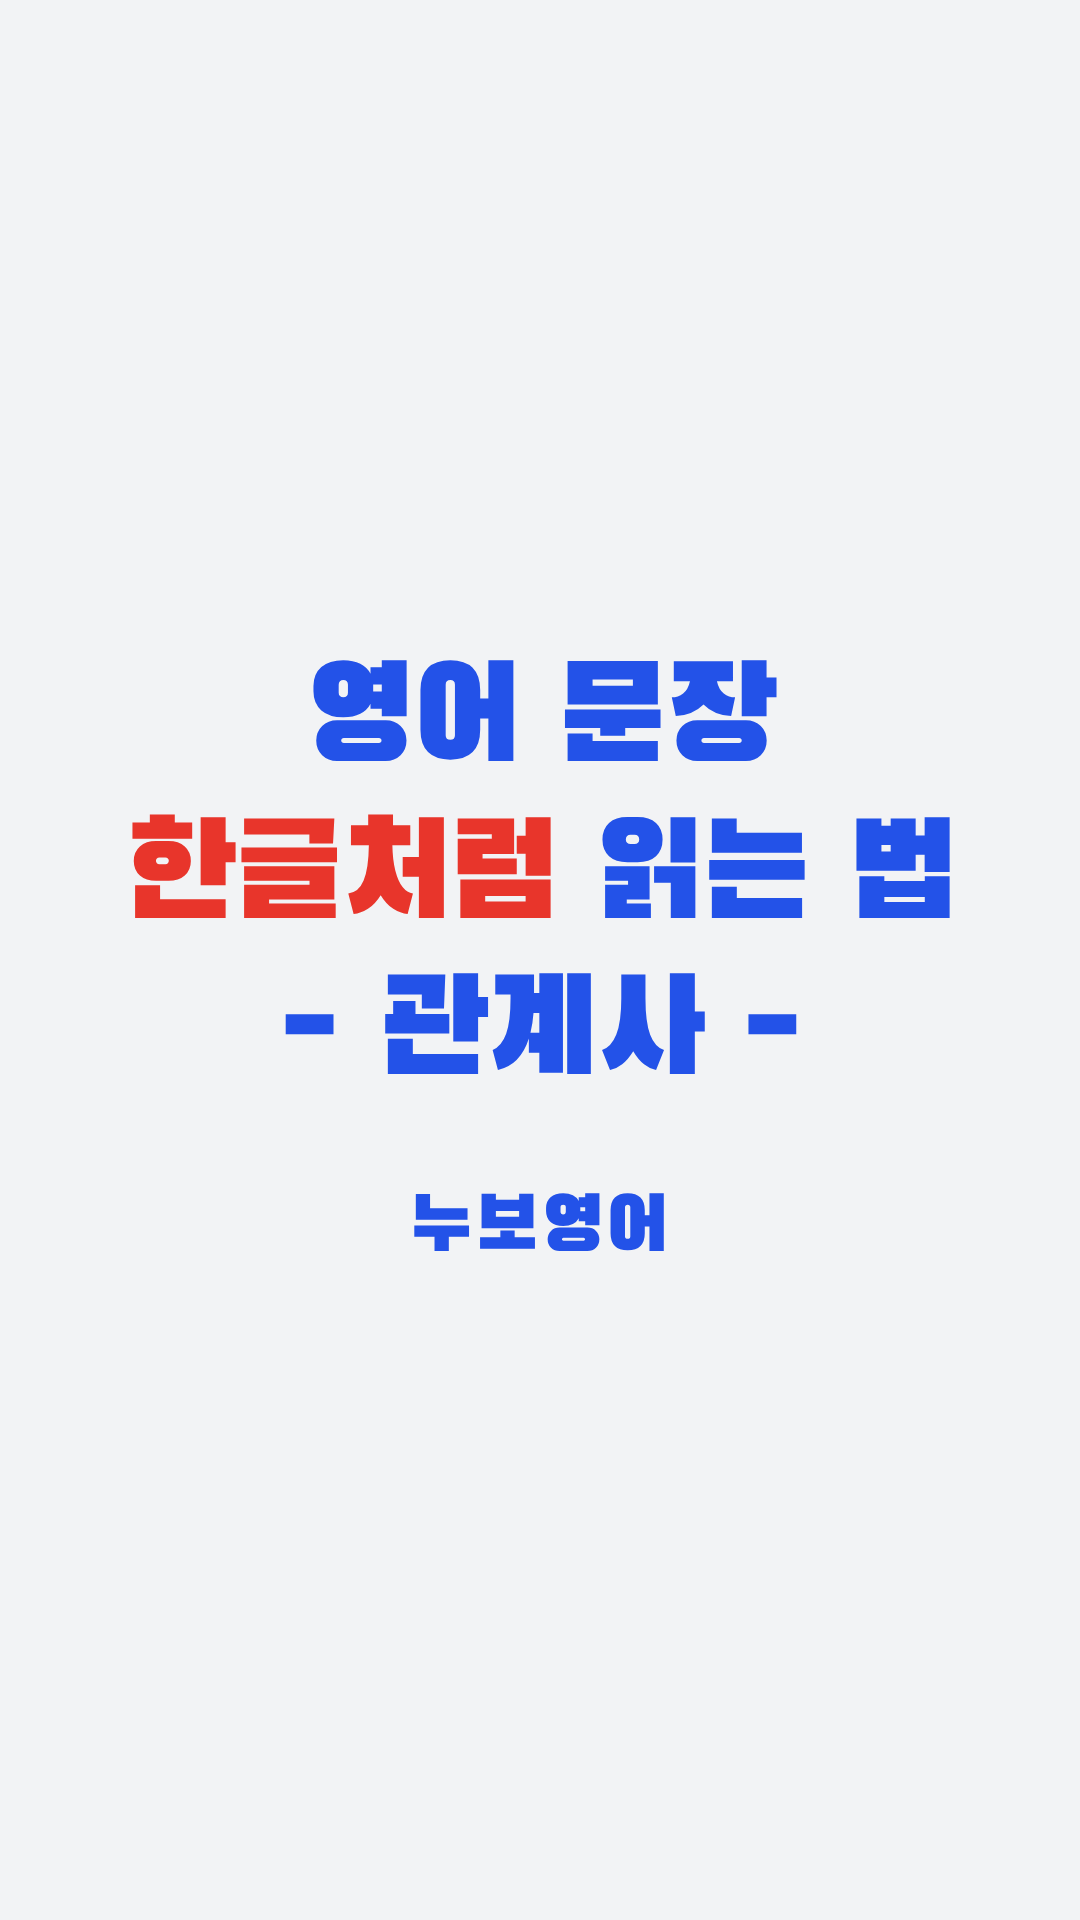
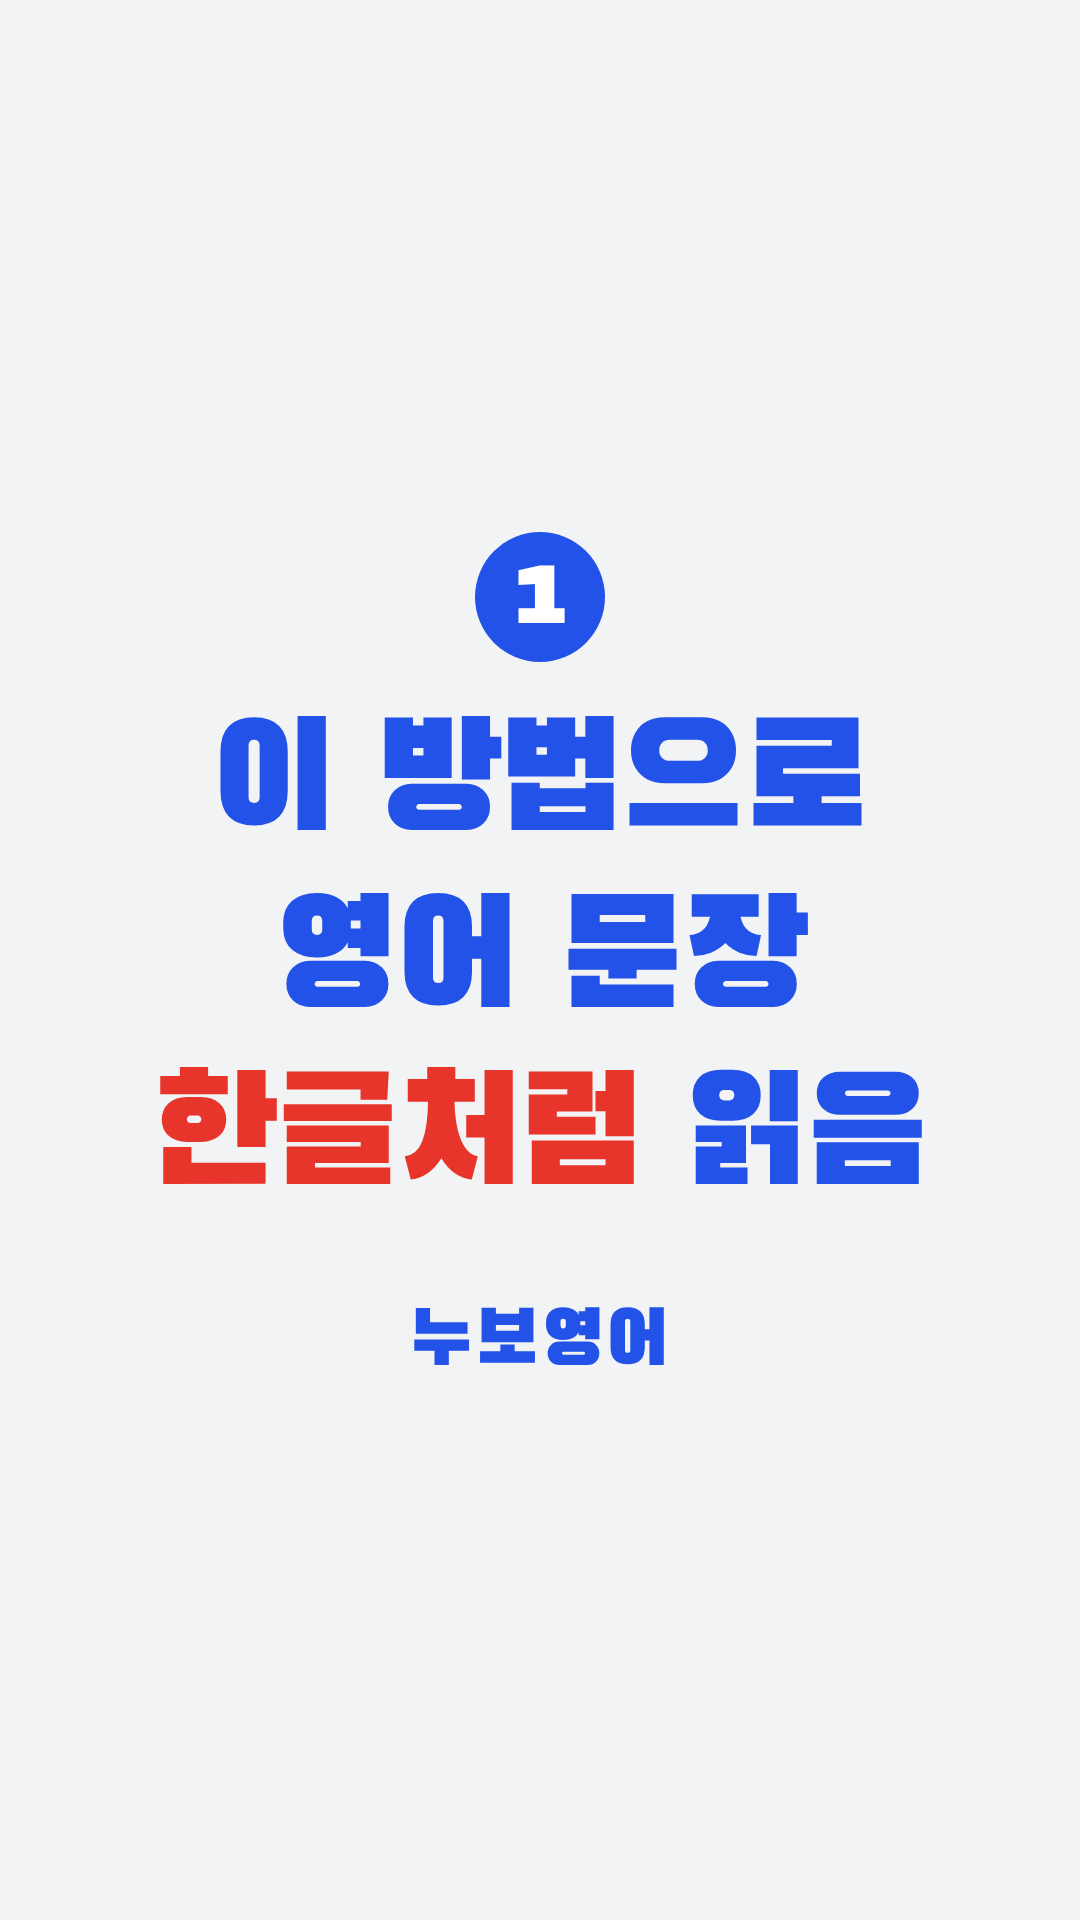
Relative-clause covers: 이 방법으로 영어 문장 한글처럼 읽음 + series badge 1
Claude-Session: https://claude.ai/code/session_01Rym27oCy7NFVPU9s4bdxz4

Changed region(s): [[0.1222, 0.25, 0.8861, 0.7188]]

diff --git a/motion/src/tip/Cover.tsx b/motion/src/tip/Cover.tsx
@@ -5,7 +5,7 @@ import '../fonts';
 
 /** Reel cover. Text stays inside the centre 3:4 area so the profile-grid crop keeps it. Line markup: {accent}. */
 const BLUE = '#2352E8', RED = '#E8352B';
-export type CoverProps = {dark?: boolean; lines?: string[]; bg?: string; uniform?: boolean};
+export type CoverProps = {dark?: boolean; lines?: string[]; bg?: string; uniform?: boolean; badge?: string};
 const DEFAULT = ['해석 못해도', '{주제 1분컷}', '하는 법'];
 
 const em = (t: string) => [...t.replace(/[{}_]/g, '')].reduce((w, c) => w + (c === ' ' ? 0.3 : /[가-힣]/.test(c) ? 0.98 : 0.6), 0);
@@ -28,7 +28,7 @@ const Line: React.FC<{t: string; dark?: boolean; size?: number}> = ({t: raw, dar
   );
 };
 
-export const Cover: React.FC<CoverProps> = ({dark, lines = DEFAULT, bg = 'cover_bg.jpg', uniform}) => {
+export const Cover: React.FC<CoverProps> = ({dark, lines = DEFAULT, bg = 'cover_bg.jpg', uniform, badge}) => {
   const same = uniform ? Math.min(150, ...lines.map((l) => 990 / em(l))) : undefined;
   return (
   <AbsoluteFill style={{background: dark ? '#111' : '#F2F3F5', fontFamily: DISPLAY.heavy, alignItems: 'center', justifyContent: 'center'}}>
@@ -37,6 +37,8 @@ export const Cover: React.FC<CoverProps> = ({dark, lines = DEFAULT, bg = 'cover_
       <div style={{position: 'absolute', inset: 0, background: 'radial-gradient(ellipse at center, rgba(0,0,0,0.15), rgba(0,0,0,0.6))'}} />
     </>) : null}
     <div style={{position: 'relative', textAlign: 'center', lineHeight: 1.18, letterSpacing: -2}}>
+      {badge ? <div style={{width: 130, height: 130, borderRadius: '50%', background: dark ? '#fff' : BLUE, color: dark ? BLUE : '#fff', fontSize: 92,
+        display: 'flex', alignItems: 'center', justifyContent: 'center', margin: '0 auto 36px', letterSpacing: 0}}>{badge}</div> : null}
       {lines.map((t, i) => <Line key={i} t={t} dark={dark} size={same} />)}
       <div style={{marginTop: 70, fontSize: 76, color: dark ? '#fff' : BLUE, letterSpacing: 2}}>
         {dark ? <span style={{background: BLUE, padding: '6px 34px', borderRadius: 999}}>누보영어</span> : '누보영어'}

diff --git a/motion/src/Root.tsx b/motion/src/Root.tsx
@@ -89,9 +89,9 @@ export const RemotionRoot: React.FC = () => (
     <Composition id="Rp5Reel" component={Annot} fps={30} width={1080} height={1920} durationInFrames={3948}
       defaultProps={{video: 'rp5.mp4', look: 'C', title: '영어 해석\n{되돌아가지 않는} 법', marks: rp5.marks as Mark[], lines: rp5.lines, cards: [], notes: [], cams: rp5.cams}} />
     <Composition id="Rp5CoverLight" component={Cover} fps={30} width={1080} height={1920} durationInFrames={1}
-      defaultProps={{dark: false, lines: ['영어 문장', '{한글처럼} 읽는 법', '- 관계사 -'], uniform: true}} />
+      defaultProps={{dark: false, lines: ['이 방법으로', '영어 문장', '{한글처럼} 읽음'], uniform: true, badge: '1'}} />
     <Composition id="Rp5CoverDark" component={Cover} fps={30} width={1080} height={1920} durationInFrames={1}
-      defaultProps={{dark: true, lines: ['영어 문장', '{한글처럼} 읽는 법', '- 관계사 -'], uniform: true, bg: 'cover_rp5_bg.jpg'}} />
+      defaultProps={{dark: true, lines: ['이 방법으로', '영어 문장', '{한글처럼} 읽음'], uniform: true, badge: '1', bg: 'cover_rp5_bg.jpg'}} />
     <Composition id="EmoReel" component={Emo} fps={FPS} width={1080} height={1920} durationInFrames={568}
       defaultProps={{video: 'rp_base.mp4', cues: [
         // clip 1: 혹시 올해 수능봐..? / 그렇다면 이 릴스가 / 수능 전 최고의 기회
